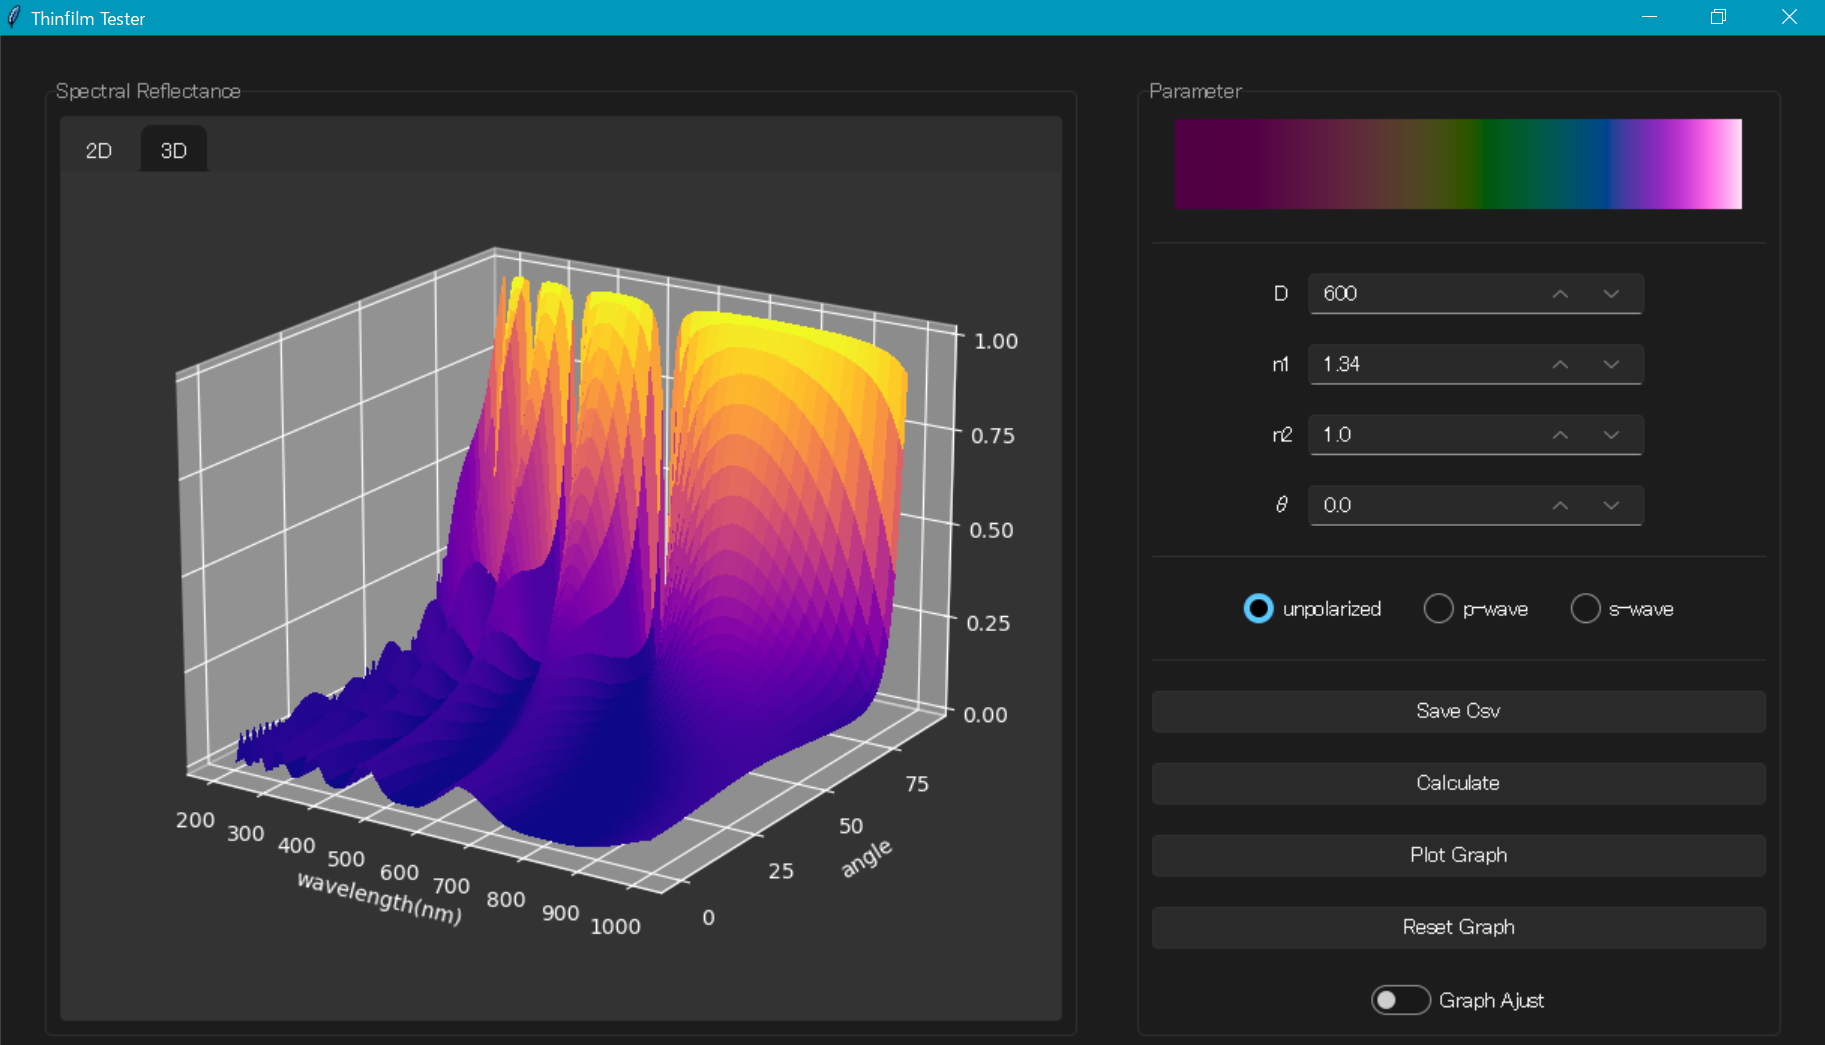
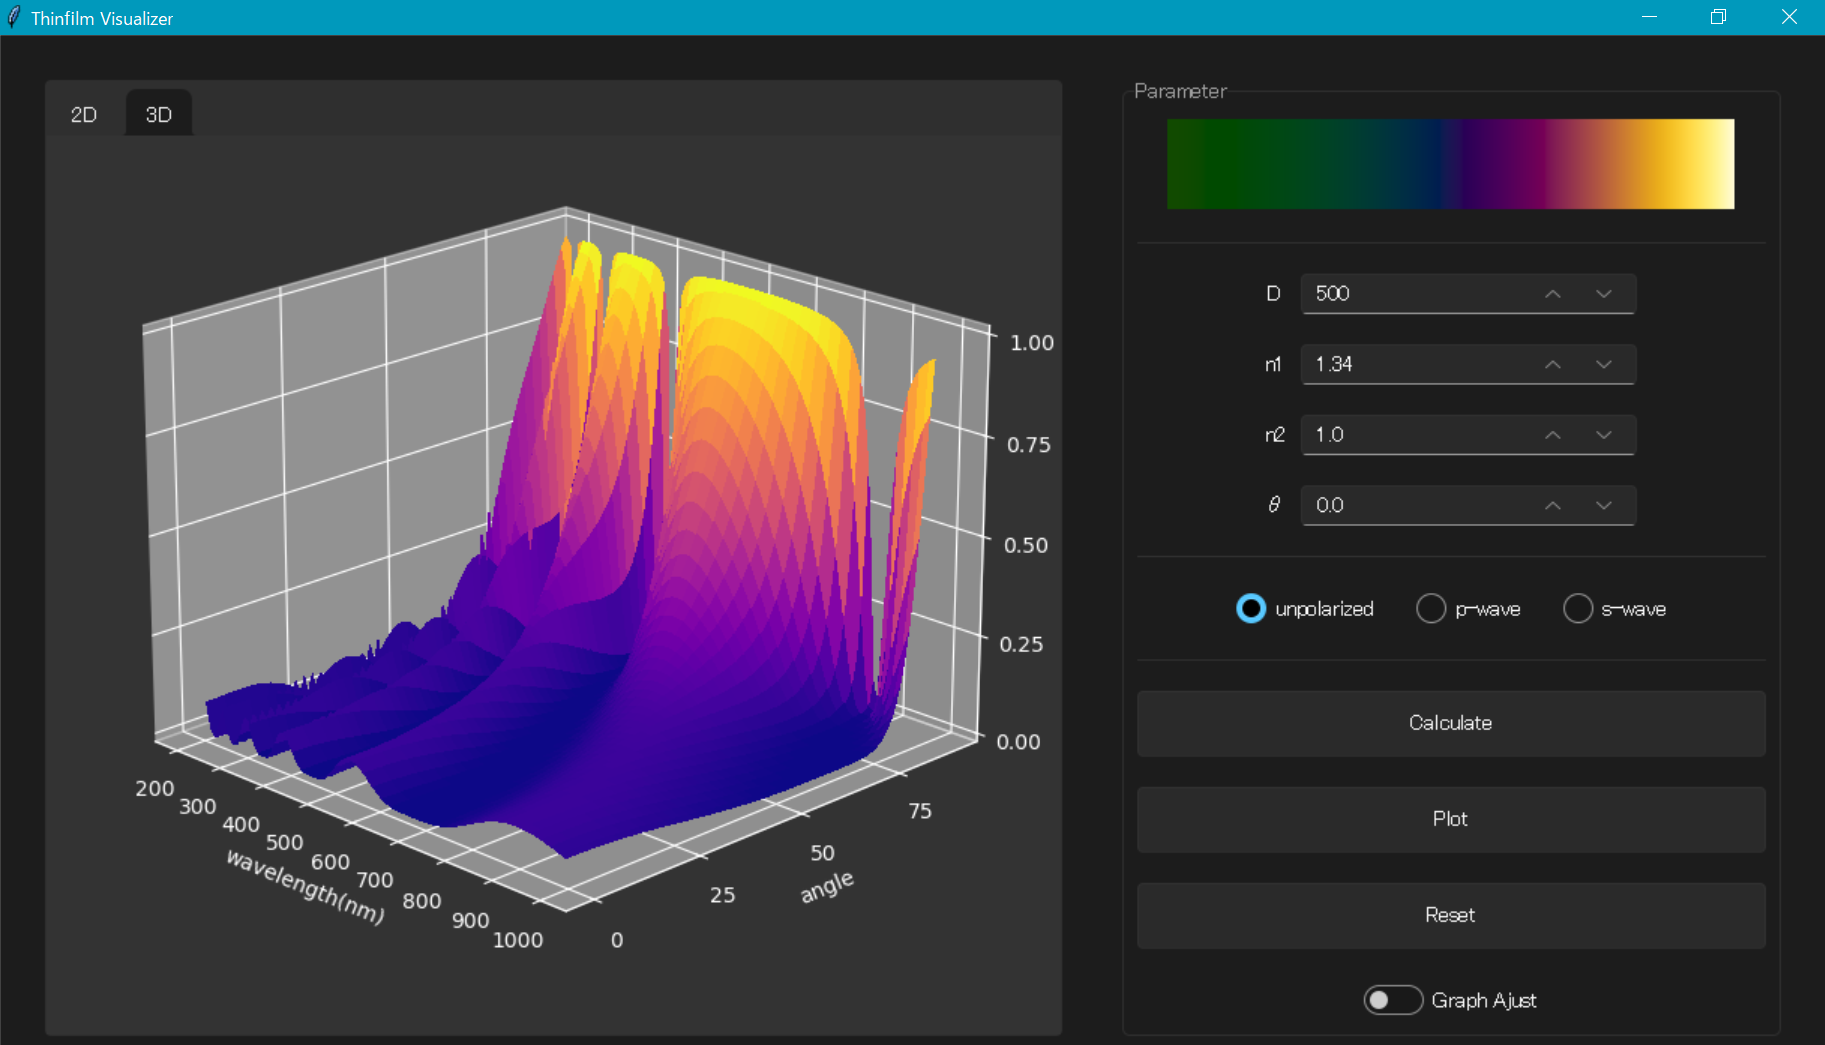
[add]  UIの説明を追加

diff --git a/Readme.md b/Readme.md
@@ -7,8 +7,9 @@
 
 ## 概要
 
-`thinfilm_visualizer`はPythonで作成した薄膜干渉可視化ツールです．薄膜干渉とは光の波としての性質により生じる光学現象で，身近ではシャボン玉などで観察されます．
-本ツールでは，図1に示す通り，薄膜干渉のスペクトル反射率分布のプロットや光の入射角に応じた色の変化を可視化することができます．
+`thinfilm_visualizer`はPythonで作成した薄膜干渉可視化ツールです．  
+薄膜干渉とは光の波としての性質により生じる光学現象で身近ではシャボン玉などで観察されます．  
+本ツールでは，図1に示す通り，薄膜干渉のスペクトル反射率分布のプロット(図1左)や光の入射角に応じた色の変化(図1右上)を可視化することができます．
 
 ## 開発環境
 
@@ -34,25 +35,48 @@
 
 - 薄膜干渉のスペクトル反射率の計算
 - スペクトル反射率のRGB反射率への変換
-- 偏光ごとの(強度)反射率の表示
 - スペクトル反射率の2D/3Dプロット
-- 入射角ごとのRGB反射率テーブルの出力
+- 偏光ごとの(強度)反射率を
 
-<!-- ## 使い方
+## 使い方
 
-使い方
+<div align="center">
+  <img src="imgs/fig2_explain.png" width=90% />
+  <p>図2 ユーザインターフェース </p>
+</div>
 
-### 使用例
+図2はUIの説明です．各番号はそれぞれ次の通りの意味です．
 
-## 原理
+1. 薄膜干渉パラメータ
+2. 偏光状態
+3. グラフ操作ボタン
+4. 2D/3Dプロットの切り替え
 
-### 薄膜干渉
+(1)のパラメータの意味は次の通りです．
 
-### 分光反射率からRGB反射率への変換
+| パラメータ | 説明 |
+| --------- | ---- |
+| $D$       | 薄膜の膜厚 |
+| $n1$      | 薄膜の屈折率 |
+| $n2$      | 薄膜がコーティングされる物体の屈折率 |
+| $\theta$  | 入射角(2Dプロットで使用) |
+
+(3)のボタンの意味は次の通りです．
+
+| ボタン       | 説明 |
+| ----------- | ---- |
+| `Calculate` | 指定したパラメータで薄膜干渉の計算を行いグラフにプロットします． |
+| `Plot`      | グラフをプロットします．$\theta$以外のパラメータを変更する場合は`Calculate`ボタンを押して再計算する必要があります． |
+| `Reset`     | プロットしたグラフをリセットします． |
+
+**NOTE**  
+`Calculate`ボタンを押すと右上に入射角(0°～90°)ごとのRGBに変換した反射率を画像として表示します(右に行くほど入射角が大きくなる)．  
+このスペクトルからRGBへの変換には等色関数を利用してします．
+等色関数は通常は表形式で与えられますが，本ツールでは[Wyman et al. 2013]の解析的にフィッティングされた等色関数を採用しています．これにより，任意の波長での等色関数の評価が容易になります．さらに，表データの保存が不要なためメモリの節約になる場合があります．
 
 ## 参考文献
 
 - [木下 2010] "生物ナノフォトニクス―構造色入門―". 2010.
 - [Wyman et al. 2013]. "Simple Analytic Approximations to the CIE XYZ
 Color Matching Functions" 2013.
-- [Pharr et al. 2016] "Physically Based Rendering: From Theory To Implementation" 2016. -->
+- [Pharr et al. 2016] "Physically Based Rendering: From Theory To Implementation" 2016.
